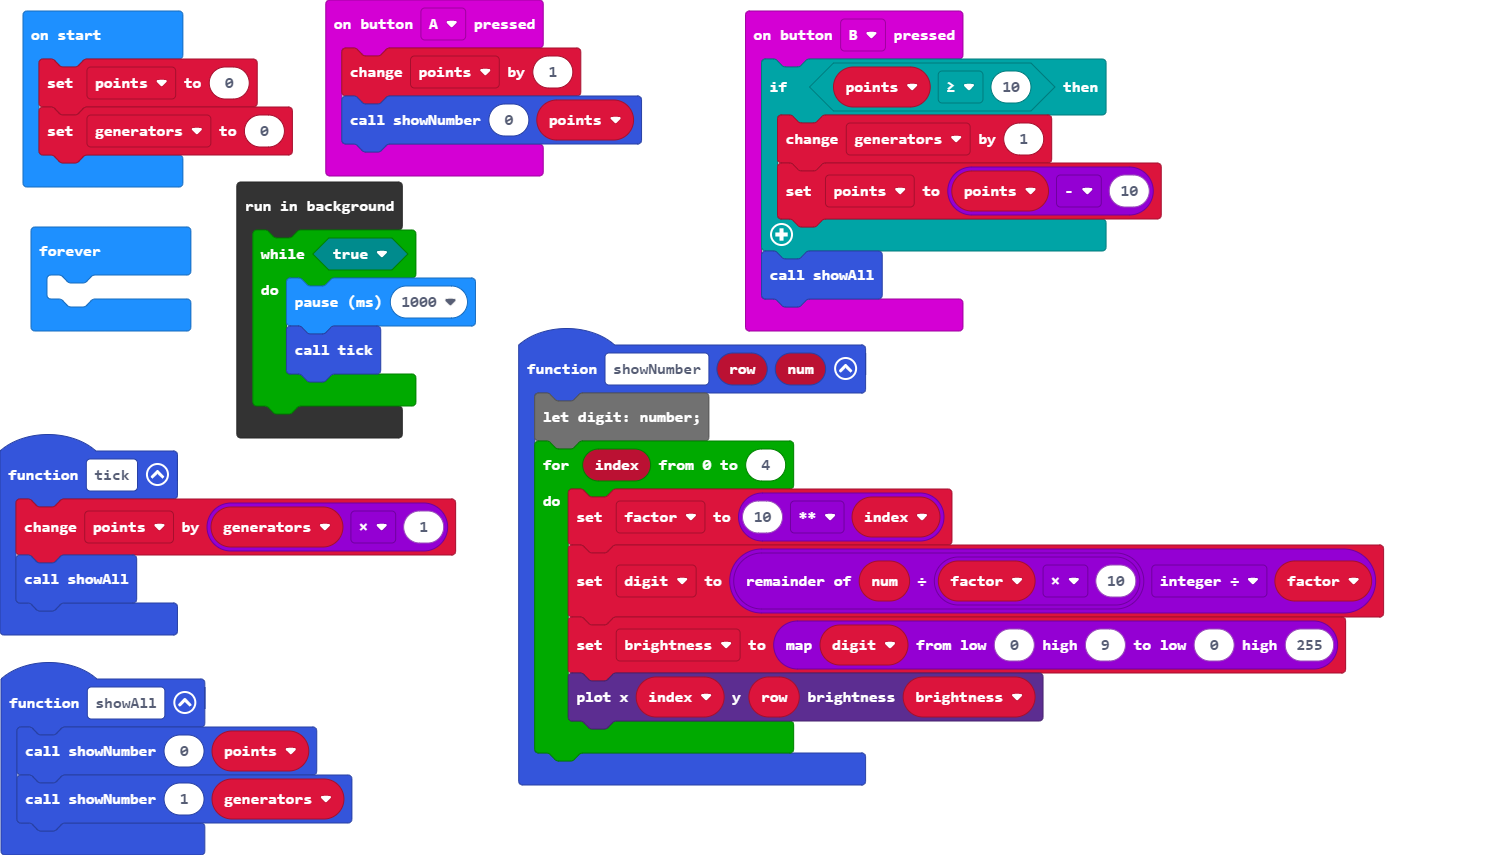
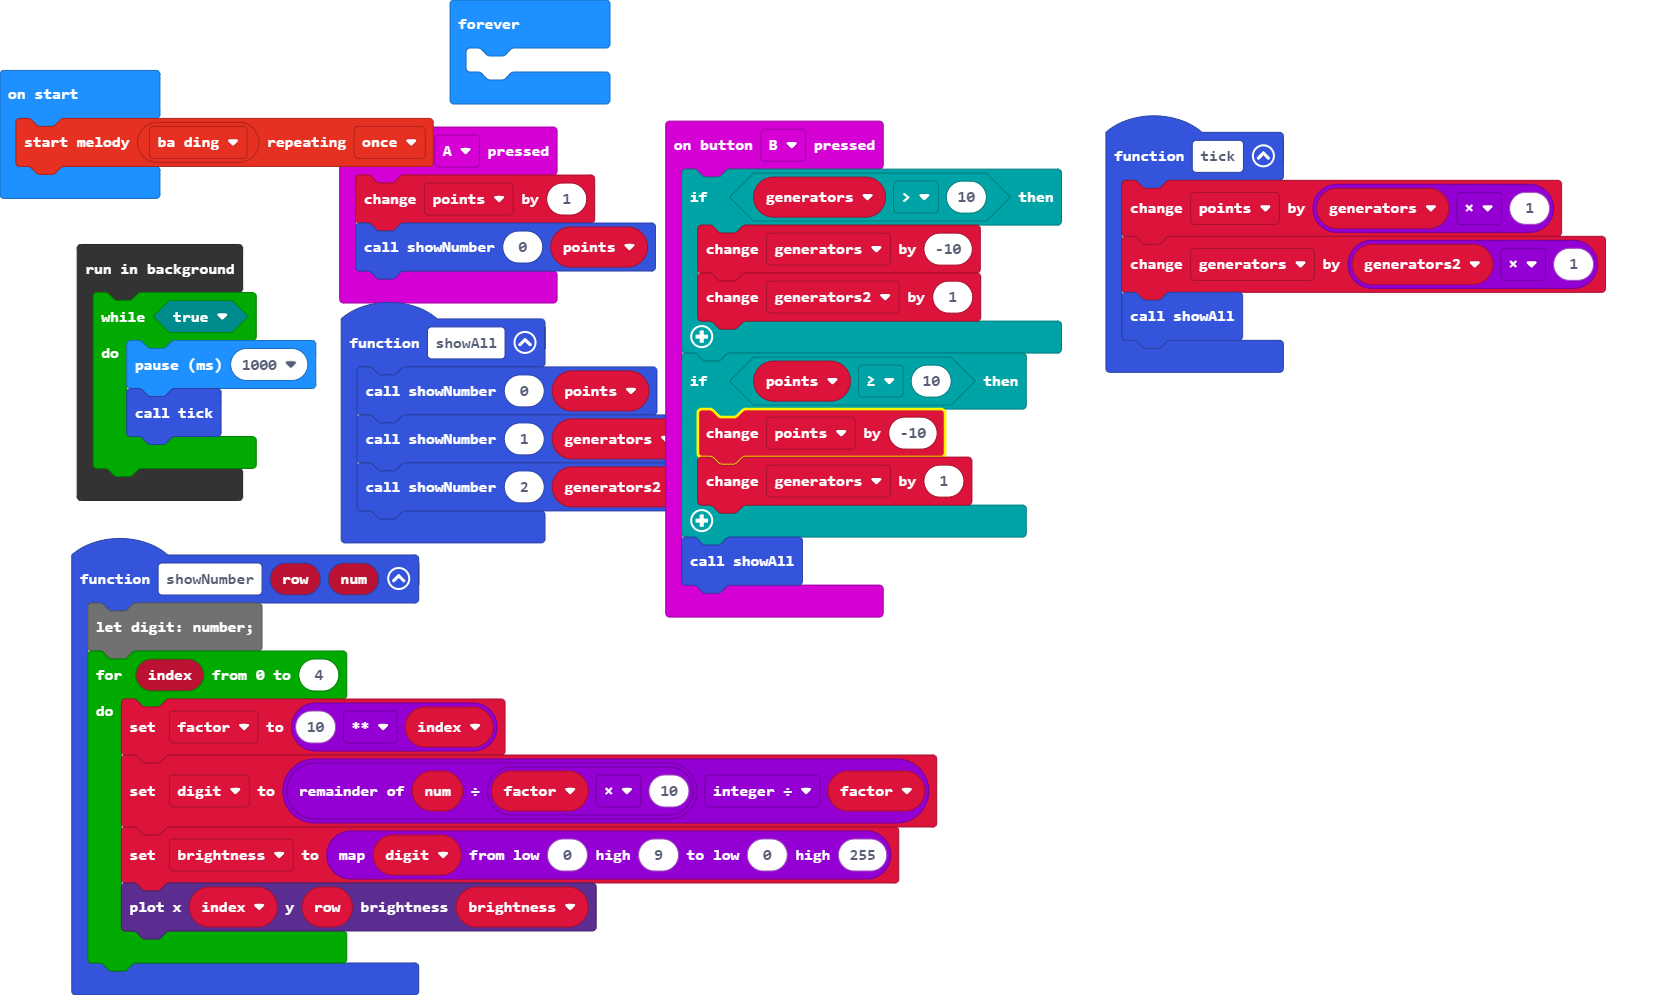
added level 2 generators

diff --git a/main.ts b/main.ts
@@ -1,19 +1,25 @@
 function tick () {
     points += generators * 1
+    generators += generators2 * 1
     showAll()
 }
 function showAll () {
     showNumber(0, points)
     showNumber(1, generators)
+    showNumber(2, generators2)
 }
 input.onButtonPressed(Button.A, function () {
     points += 1
     showNumber(0, points)
 })
 input.onButtonPressed(Button.B, function () {
+    if (generators > 10) {
+        generators += -10
+        generators2 += 1
+    }
     if (points >= 10) {
+        points += -10
         generators += 1
-        points = points - 10
     }
     showAll()
 })
@@ -28,10 +34,10 @@ for (let index = 0; index <= 4; index++) {
 }
 let brightness = 0
 let factor = 0
+let generators2 = 0
 let generators = 0
 let points = 0
-points = 0
-generators = 0
+music.startMelody(music.builtInMelody(Melodies.BaDing), MelodyOptions.Once)
 basic.forever(function () {
 	
 })
